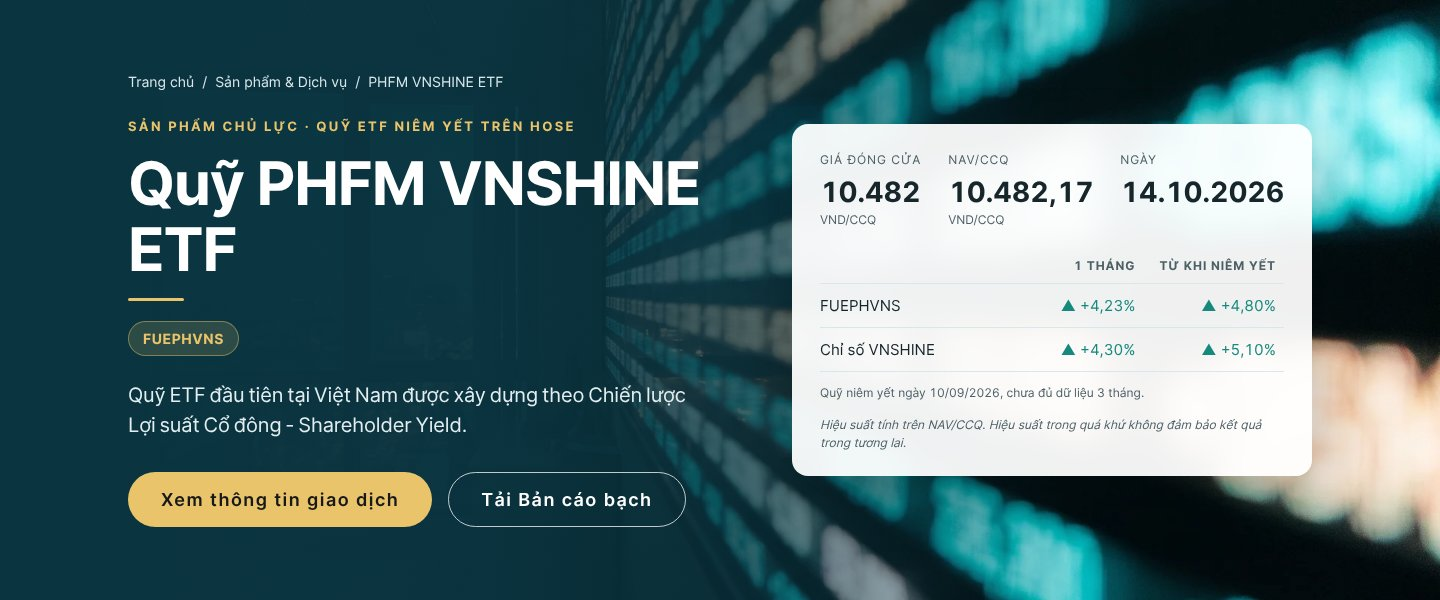
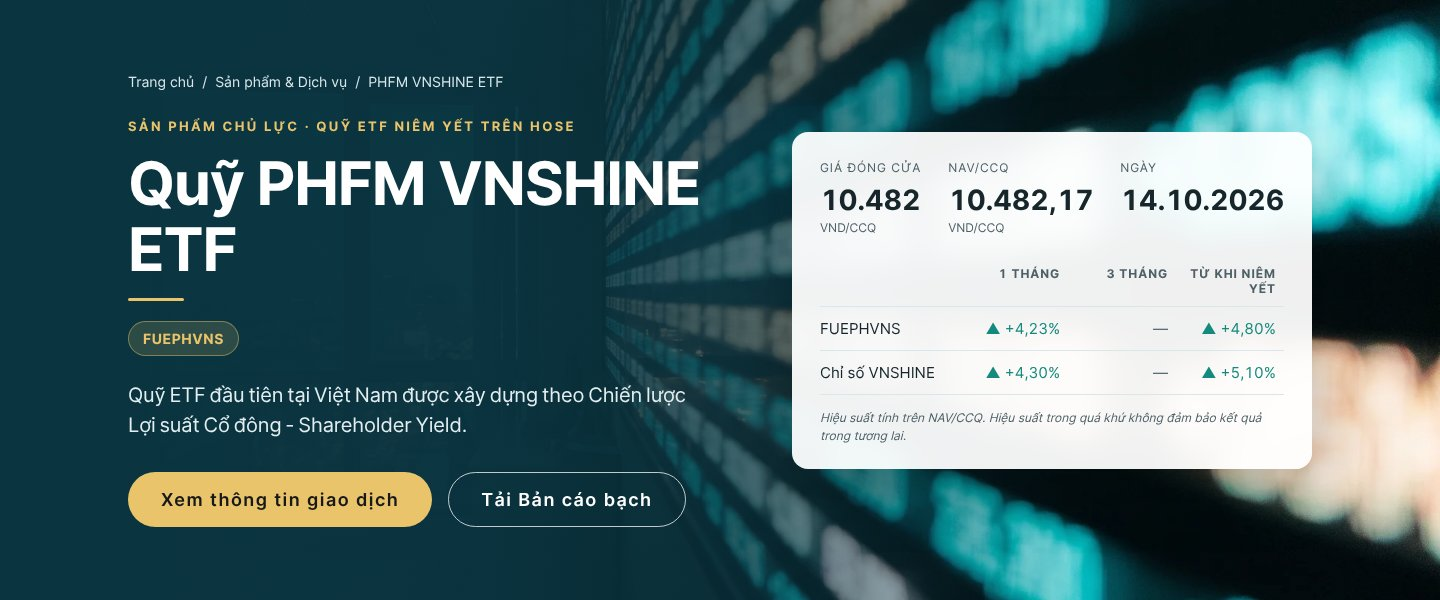
R4-04: giữ cột 3 tháng và bỏ ghi chú niêm yết (Rin quyết)
- Bỏ logic ẩn cột toàn "—", dòng ghi chú VI/EN và tên tháng tiếng Anh
- Bảng hiệu quả giống hệt bản trước R4-04 (VI/EN/中文), VNSHINE vẫn có cột 3 tháng
- Giữ lưới chỉ số .px-row. Cập nhật ảnh VNSHINE, changelog

Claude-Session: https://claude.ai/code/session_01972Ho4cVfY1nWby66M8dMW

diff --git a/src/parts/r4.css b/src/parts/r4.css
@@ -50,6 +50,5 @@
 .px-l{font-size:12px;line-height:16px;letter-spacing:.08em;text-transform:uppercase;color:var(--muted);white-space:nowrap}
 .px-v{font-size:28px;line-height:36px;font-weight:700;color:var(--ink);letter-spacing:-.02em;margin-top:6px;white-space:nowrap}
 .px-u{font-size:12px;line-height:16px;color:var(--muted);margin-top:2px}
-.px-note{font-size:12px;line-height:18px;color:var(--muted);margin-top:12px}
 @media(max-width:760px){.px-row{grid-template-columns:var(--pxm,repeat(2,minmax(0,1fr)))!important;column-gap:12px}}
 @media(max-width:374px){.px-row{grid-template-columns:minmax(0,1fr)!important}}

diff --git a/src/patches4.py b/src/patches4.py
@@ -114,8 +114,7 @@ def p_r4_09(s):
 # ---------------------------------------------------------------- R4-04: ô giá ở hero VNSHINE và PHVSF
 def p_r4_04(s):
     """Hàng chỉ số (Giá đóng cửa · NAV/CCQ · Ngày) thành lưới cột đều .px-row (CSS ở r4.css, khối R4-04).
-    Bảng hiệu quả: cột nào mọi hàng đều '—' thì ẩn (tính trong renderVals, theo dữ liệu, không theo tên quỹ),
-    thêm một dòng ghi chú khi có cột bị ẩn. Ngày niêm yết lấy từ PHFM_ANCHORS[quỹ].start (ngày dòng số liệu đầu tiên)."""
+    Bảng hiệu quả giữ nguyên như trước (Rin quyết giữ cột 3 tháng, ô trống hiện "—")"""
     LB = 'font-size:13px;letter-spacing:.08em;text-transform:uppercase;color:var(--muted)'
     old = """<div style="display:flex;gap:40px;flex-wrap:wrap">
               <sc-if value="{{ f.isEtf }}"><div><div style="%s">{{ d.fundUi.closePrice }}</div><div style="display:flex;align-items:baseline;gap:6px;margin-top:6px"><span style="font-size:32px;line-height:40px;font-weight:700;color:var(--ink);letter-spacing:-.01em;font-variant-numeric:tabular-nums">{{ f.cuPrice }}</span><span style="font-size:14px;color:var(--muted)">{{ f.navUnit }}</span></div></div></sc-if>
@@ -128,24 +127,9 @@ def p_r4_04(s):
               <div class="px-c"><div class="px-l">{{ d.fundUi.date }}</div><div class="px-v">{{ f.asOf }}</div></div>
             </div>"""
     s = rep(s, old, new)
-    # số cột bảng hiệu quả theo dữ liệu (tiêu đề và từng hàng)
-    s = rep(s, 'grid-template-columns:minmax(0,1.3fr) repeat(3,minmax(0,1fr))', 'grid-template-columns:minmax(0,1.3fr) repeat({{ f.heroNCol }},minmax(0,1fr))', 2)
-    # ghi chú cột bị ẩn, ngay dưới bảng
-    s = rep(s, '<div style="font-size:12px;line-height:18px;font-style:italic;color:var(--muted);margin-top:14px">{{ f.heroNote }}</div>',
-               '<sc-if value="{{ f.hasHidCol }}"><div class="px-note">{{ f.hidColNote }}</div></sc-if>\n            <div style="font-size:12px;line-height:18px;font-style:italic;color:var(--muted);margin-top:14px">{{ f.heroNote }}</div>')
-    # logic: ẩn cột toàn '—'. Chạy sau khi cuRows đã tính từ chuỗi chung (p_fundcalc ở patches.py)
+    # số cột của lưới chỉ số (desktop và mobile), tính sẵn trong renderVals
     s = rep(s, "        f.heroCols2 = wide ?",
-               """        { const nc = F.heroCols.length, keep = [], hid = [];
-          for (let i = 0; i < nc; i++) (f.cuRows.some(r => r.v[i] && r.v[i].t !== '—') ? keep : hid).push(i);
-          if (!keep.length) { keep.push(...hid); hid.length = 0; }
-          f.heroColsL = f.heroColsL.filter((_, i) => keep.indexOf(i) >= 0);
-          f.cuRows = f.cuRows.map(r => ({ ...r, v: r.v.filter((_, i) => keep.indexOf(i) >= 0) }));
-          f.heroNCol = String(keep.length); f.pxCols = F.isEtf ? 'repeat(3,auto)' : 'repeat(2,minmax(0,1fr))'; f.pxColsM = F.isEtf ? 'repeat(2,minmax(0,1fr))' : 'minmax(0,1fr)';
-          const st = ((window.PHFM_ANCHORS || {})[p] || {}).start; f.hasHidCol = hid.length > 0 && !!st && l !== 'zh'; // bản 中文: ẩn cột, chưa có câu ghi chú (chờ Rin và cô Helena duyệt)
-          if (f.hasHidCol) { const dmy = st.slice(8, 10) + '/' + st.slice(5, 7) + '/' + st.slice(0, 4), lbl = hid.map(i => F.heroCols[i]).join(', ');
-            const dEn = (+st.slice(8, 10)) + ' ' + ['January', 'February', 'March', 'April', 'May', 'June', 'July', 'August', 'September', 'October', 'November', 'December'][+st.slice(5, 7) - 1] + ' ' + st.slice(0, 4);
-            f.hidColNote = l === 'vi' ? (F.isEtf ? 'Quỹ niêm yết ngày ' : 'Quỹ thành lập ngày ') + dmy + ', chưa đủ dữ liệu ' + lbl + '.'
-              : 'The fund was ' + (F.isEtf ? 'listed' : 'set up') + ' on ' + dEn + ', so there is not enough data for ' + lbl + ' yet.'; } }
+               """        f.pxCols = F.isEtf ? 'repeat(3,auto)' : 'repeat(2,minmax(0,1fr))'; f.pxColsM = F.isEtf ? 'repeat(2,minmax(0,1fr))' : 'minmax(0,1fr)';
         f.heroCols2 = wide ?""")
     return s
 

diff --git a/specs/changelog.md b/specs/changelog.md
@@ -48,4 +48,4 @@ Cột: Trang | Thay đổi | Lý do. Vòng mới nối thêm ở cuối bảng.
 | PHVSF, VNSHINE, Quỹ thành viên, Danh mục, Tư vấn, Học viện, Tuyển dụng, 2 trang Hướng dẫn | Thay ảnh hero theo từng vị trí bằng bộ stock `r5_*` (H2–H10). Khung cắt: ảnh quỹ 75% 50% (mobile 80%), Hướng dẫn PHVSF 85% (mobile 88%), Hướng dẫn VNSHINE 75% (mobile 80%), ảnh dịch vụ theo chủ thể. Hero Học viện đổi lớp mờ sang teal rộng hơn vì ảnh mới sáng. Alt hai trang Hướng dẫn đổi theo nội dung ảnh (VI/EN/中文). Hero Hướng dẫn (≥ 701px): lớp mờ trắng rộng hơn (đặc đến 55%, hết ở 82%) và tiêu đề tối đa `min(720px, 60vw)` vì ảnh mới tối, chữ tối trên ảnh chỉ 1,3–2,3:1; hero cao thêm 56px. Khung cắt mobile của hai ảnh Hướng dẫn thêm `!important` để thắng luật cũ ≤ 700px | Bớt ảnh AI quá lố, thêm ảnh tài chính theo giờ xanh khớp trang chủ (#14) |
 | Góc nhìn & Tin tức | Thay 10 ảnh bài viết (N1–N10) bằng `r5_nw_*`; ba ảnh tin sự kiện giữ nguyên | Ảnh báo tài chính ban ngày, mỗi bài một ảnh (#14) |
 | Toàn site | Xoá 16 ảnh cũ không còn dùng khỏi `assets/img` (ab_hero, advisor, team, nw_city, pk_I05, pk_I07, pk_I12–I15, pk_I17, pk_I18, r3_adv_hero, r3_vns_hero, r3_nw_msci, r3_nw_rot). Thêm `qa/check-images.js` kiểm từng vị trí hiện đúng khoá ảnh và không trùng khoá | Dọn ảnh thừa sau R4-09 |
-| VNSHINE, PHVSF | Ô giá ở hero: hàng chỉ số (Giá đóng cửa · NAV/CCQ · Ngày) thành lưới `.px-row`, số 28px, nhãn và đơn vị 12px, đơn vị nằm dưới số; không còn `flex-wrap` đẩy Ngày xuống hàng. Desktop VNSHINE 3 cột cách đều, PHVSF 2 cột; mobile VNSHINE Giá + NAV một hàng, Ngày hàng dưới thẳng cột, PHVSF mỗi chỉ số một hàng. Bảng hiệu quả tự ẩn cột mà mọi hàng đều "—" (VNSHINE: 3 tháng) và thêm dòng ghi chú ngày niêm yết (lấy từ `PHFM_ANCHORS[quỹ].start`, chỉ hiện khi có cột bị ẩn; EN viết ngày bằng chữ "10 September 2026"; bản 中文 ẩn cột nhưng chưa có ghi chú, chờ duyệt). Số liệu không đổi | Bỏ khoảng trống thừa trong ô giá, bỏ cột trống trông như lỗi (#5) |
+| VNSHINE, PHVSF | Ô giá ở hero: hàng chỉ số (Giá đóng cửa · NAV/CCQ · Ngày) thành lưới `.px-row`, số 28px, nhãn và đơn vị 12px, đơn vị nằm dưới số; không còn `flex-wrap` đẩy Ngày xuống hàng. Desktop VNSHINE 3 cột cách đều, PHVSF 2 cột; mobile VNSHINE Giá + NAV một hàng, Ngày hàng dưới thẳng cột, PHVSF mỗi chỉ số một hàng. Bảng hiệu quả giữ nguyên, kể cả cột 3 tháng của VNSHINE (ô trống hiện "—"; Rin quyết giữ). Số liệu không đổi | Bỏ khoảng trống thừa trong ô giá (#5) |
